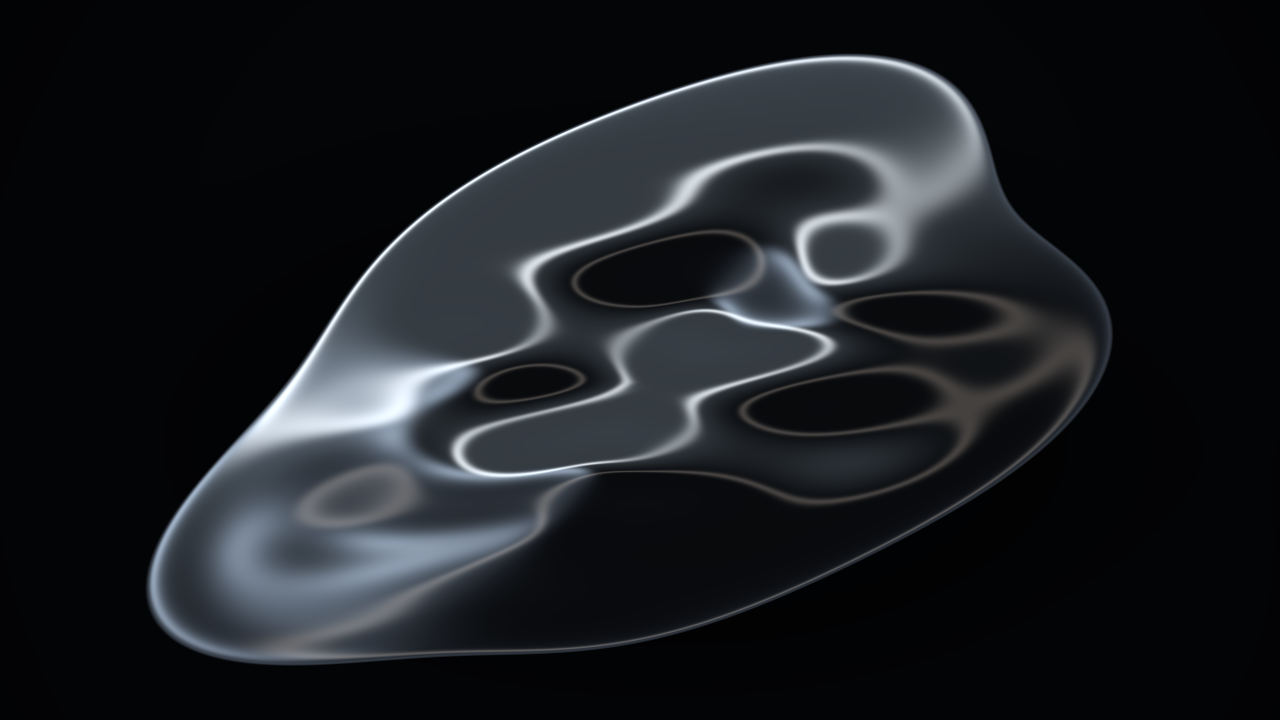
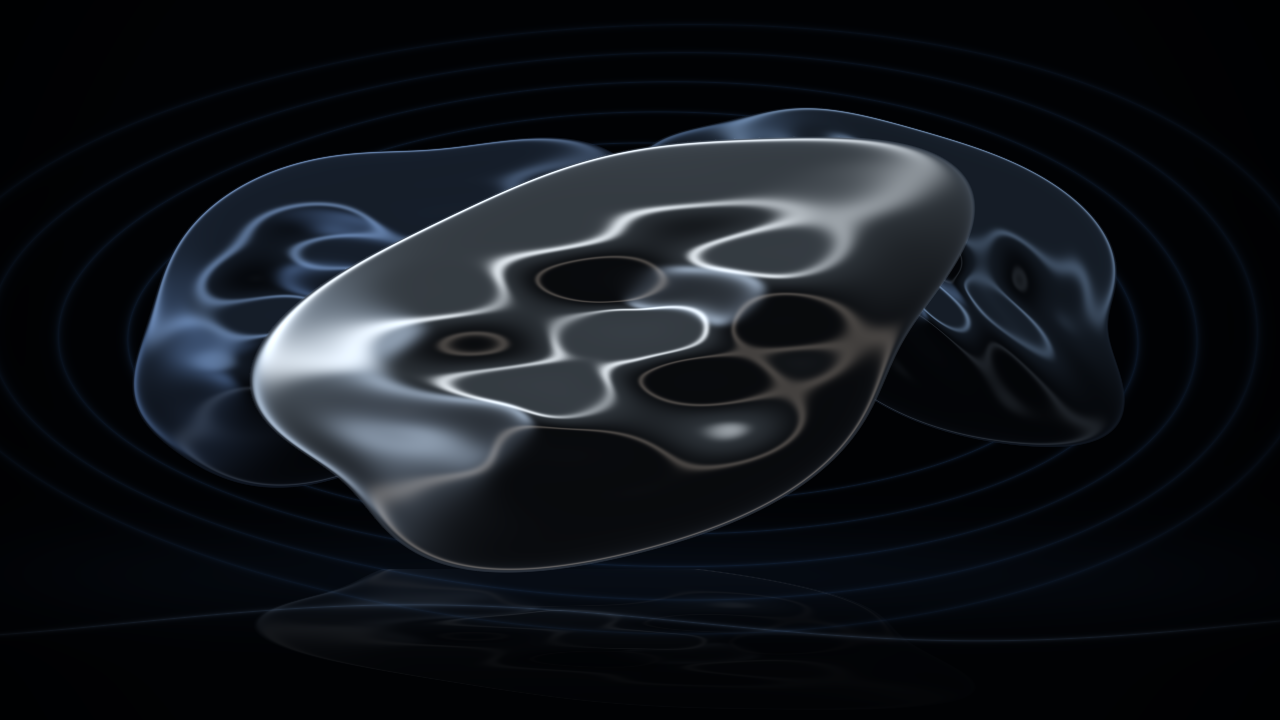
Compose liquid metal into a layered audio-reactive stage

diff --git a/touchdesigner/README.md b/touchdesigner/README.md
@@ -17,7 +17,7 @@
 
 ## 当前画面 / Liquid Metal
 
-银色镜面雕塑连续隆起、扭转与流动。麦克风的快速音量包络与阻尼运动共同控制表面褶皱和轮廓扩张；反射来自原创程序化摄影棚光带，没有图片素材或闪烁粒子。
+舞台层次：明亮主雕塑、左右较暗的后景金属形体、五层远景轮廓、薄雾、压缩地面反射与前景边线。主雕塑跟随当前声音，后景分别跟随约0.85秒和1.7秒前的声音特征，形成错位呼应。银色镜面雕塑连续隆起、扭转与流动。麦克风的快速音量包络与阻尼运动共同控制表面褶皱和轮廓扩张；反射来自原创程序化摄影棚光带，没有图片素材或闪烁粒子。
 
 这是实时着色器表面形变，不是离线视频或物理流体模拟。Esc 退出全屏，F1 返回演出；麦克风监听关闭。
 
